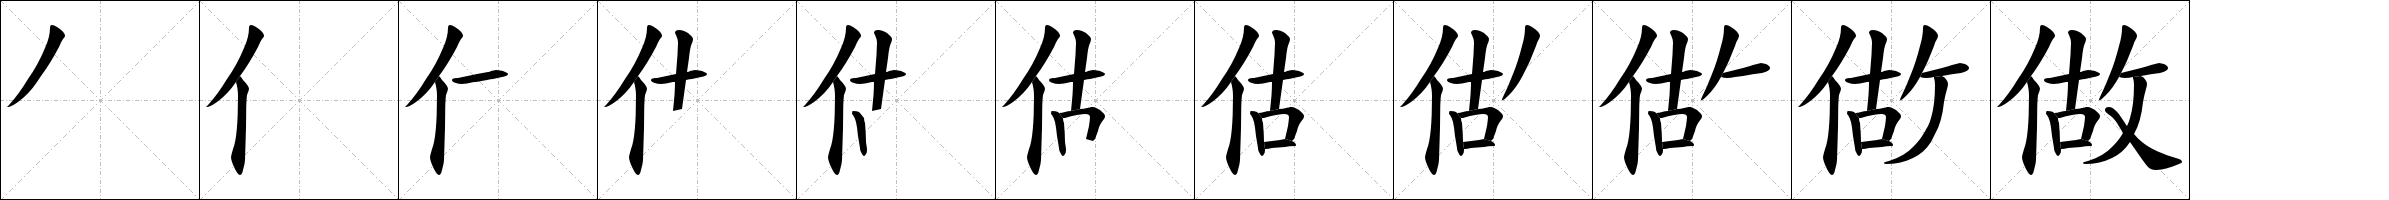
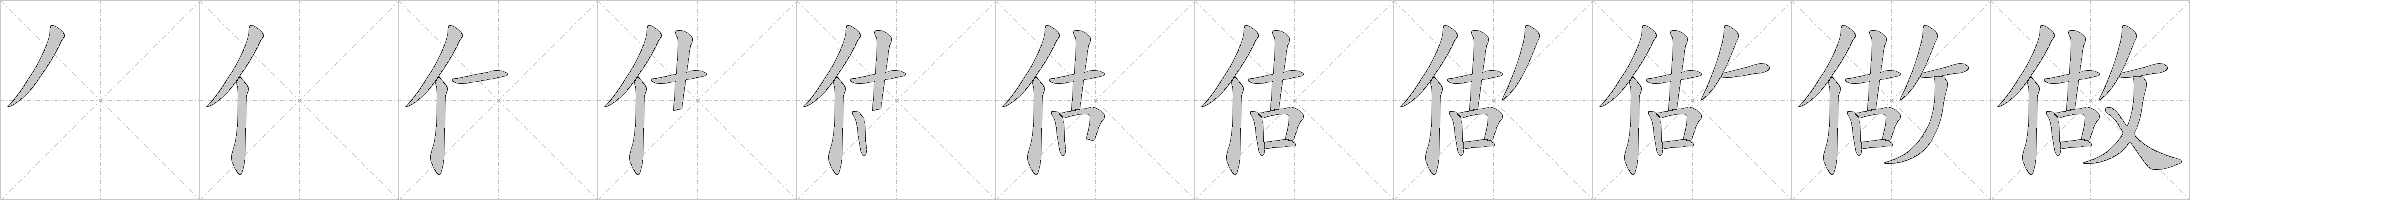
updated

diff --git a/worksheet.py b/worksheet.py
@@ -1,20 +1,36 @@
 import os
 import requests
+import numpy as np
 import pinyin as py
 from pinyin.cedict import translate_word
-from PIL import Image
+from PIL import Image, ImageOps
 from io import BytesIO
 from reportlab.lib.pagesizes import A4
 from reportlab.pdfgen import canvas
 from reportlab.pdfbase import pdfmetrics
 from reportlab.pdfbase.ttfonts import TTFont
 
+def change_color(image_path):
+    try:
+        image = Image.open(image_path)
+        image = image.convert("RGB")
+        image_array = np.array(image)
+        target_color = (0, 0, 0)
+        target_channels = np.array(target_color)
+        color_mask = np.all(image_array == target_channels, axis=2)
+        image_array[color_mask] = [200, 200, 200]
+        modified_image = Image.fromarray(image_array)
+        modified_image.save(image_path)
+        print("Color changed to red and saved successfully.")
+    except IOError:
+        print("Unable to change the color to red.")
+
 def get_chinese_word_png(chinese_word):
     unicode_hex = chinese_word.encode('unicode-escape').decode()[2:]
     image_path = f"assets/strokes/sequence/{unicode_hex}.png"
 
     if os.path.exists(image_path):
-        image = Image.open(image_path).convert("L")
+        image = Image.open(image_path)
         width, height = image.size
         return image_path, width, height
 
@@ -25,7 +41,8 @@ def get_chinese_word_png(chinese_word):
         os.makedirs(os.path.dirname(image_path), exist_ok=True)
         with open(image_path, 'wb') as f:
             f.write(response.content)
-        image = Image.open(BytesIO(response.content)).convert("L")
+        image = Image.open(BytesIO(response.content))
+        change_color(image_path)
         width, height = image.size
         return image_path, width, height
 
@@ -51,9 +68,11 @@ def add_vocabulary(c, vocabulary, pdf_height):
         c.setFont("baseFont", 50)
         c.drawString(50 * index, h - pdf_height - 45, word)
 
-        url, width, height = get_chinese_word_png(word)
+
+    for index, word in enumerate(vocabulary, start=1):
+        image_path, width, height = get_chinese_word_png(word)
         scaling_factor = min(max_dimension / width, max_dimension / height)
-        c.drawImage(url, 50, h - pdf_height - 40 * index - 100, width=int(width * scaling_factor), height=int(height * scaling_factor))
+        c.drawImage(image_path, 50, h - pdf_height - 45 * index - 60, width=int(width * scaling_factor), height=int(height * scaling_factor))
 
     return pdf_height
 
@@ -67,11 +86,11 @@ def generate_worksheet_pdf():
     c = canvas.Canvas(pdf_buffer, pagesize=A4)
 
     pdf_height = 50 
-    vocabularies = ['你好']
-    # vocabularies = ['明聰', '聰明', '做']
+    # vocabularies = ['你好']
+    vocabularies = ['明聰', '聰明', '做']
     for vocabulary in vocabularies:
         add_vocabulary(c, vocabulary, pdf_height)
-        pdf_height += 400 
+        break
 
     c.save()
     pdf_data = pdf_buffer.getvalue()
